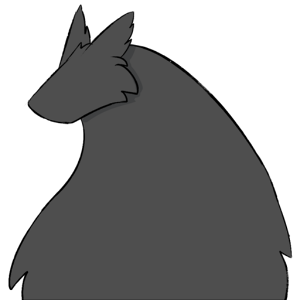
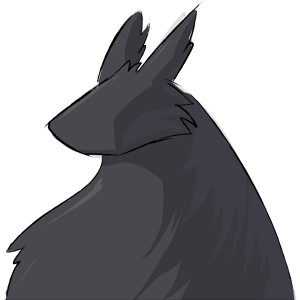
Updated tooltips
-Improved Reguar tooltip art
-Added Owluar/Wereguar tooltip art
-Implement new tooltip art into facelessness lore

Changed region(s): [[0.0, 0.0, 0.99, 1.0], [0.42, 0.45, 0.6, 0.51], [0.27, 0.36, 0.33, 0.39]]

diff --git a/src/Pages/Guarians/Tabs/Lore/Lore.tsx b/src/Pages/Guarians/Tabs/Lore/Lore.tsx
@@ -3,6 +3,8 @@ import { GuarianTooltip } from "../../../../Components/GuarianTooltip";
 import { TipIcon } from "../../../../Components/GuarianTooltip/Images";
 import styles from "./lore.module.css";
 
+const Gt = GuarianTooltip;
+
 interface IProps {}
 
 const Lore: React.FC<IProps> = ({}) => {
@@ -12,12 +14,13 @@ const Lore: React.FC<IProps> = ({}) => {
         <h3>Facial Features</h3>
         <p>
           One of the most notable and immediately apparent features of their guarians is their
-          typical lack of facial features. While total facelessness can be found in some guarians,
-          there are a few facial features that appear at varying frequencies. Ears are actually
-          relatively common and can be found on{" "}
-          <GuarianTooltip images={TipIcon.Reguar}>many guarians</GuarianTooltip>. Mouths are far
-          rarer, but can still be found on rare occassion. Not a single guarian with eyes has been
-          seen to date (not counting those who have had their eyes drawn on after the fact).
+          typical lack of facial features. While total facelessness is{" "}
+          <Gt images={TipIcon.Owluar}>relatively common</Gt>, a few facial features still naturally
+          occur. Ears are actually relatively common and can be found on{" "}
+          <Gt images={TipIcon.Reguar}>many guarians</Gt>. Mouths are far rarer, but can still be
+          found on rare occassion. Not a single guarian with eyes has been seen to date (not
+          counting those who have had their eyes{" "}
+          <Gt images={TipIcon.Wereguar}>drawn on after the fact</Gt>).
         </p>
       </div>
       <div className={styles.tidbit}>

diff --git a/src/Pages/Guarians/Tabs/KnownGuarians/GuarianCharacterReference/WideGuarianReference.tsx b/src/Pages/Guarians/Tabs/KnownGuarians/GuarianCharacterReference/WideGuarianReference.tsx
@@ -25,7 +25,6 @@ const WideGuarianReference: React.FC<IProps> = ({ guarian, selectedMaterial, onS
       <div style={{ display: "flex", flexDirection: isHorizontal ? "row" : "column" }}>
         <div
           style={{
-            //Massive flex so that this gets bigger before the text does
             flex: 1 + (guarian.images.maxRefWidth ?? 900) / 900,
             display: "flex",
             flexDirection: isHorizontal ? "column" : "row",

diff --git a/src/Components/GuarianTooltip/Images/tipIcon.ts b/src/Components/GuarianTooltip/Images/tipIcon.ts
@@ -1,0 +1,17 @@
+import reguar from "./reguar.png";
+import wereguar from "./wereguar.png";
+import owluar from "./owluar.png";
+
+export enum TipIcon {
+  Reguar,
+  Wereguar,
+  Owluar,
+}
+
+const tooltipMap: { [guarian: number]: string } = {};
+
+tooltipMap[TipIcon.Reguar] = reguar;
+tooltipMap[TipIcon.Wereguar] = wereguar;
+tooltipMap[TipIcon.Owluar] = owluar;
+
+export { tooltipMap };

diff --git a/src/Components/GuarianTooltip/Images/index.ts b/src/Components/GuarianTooltip/Images/index.ts
@@ -1,11 +1,1 @@
-import reguar from "./reguar.png";
-
-export enum TipIcon {
-  Reguar,
-}
-
-const tooltipMap: { [guarian: number]: string } = {};
-
-tooltipMap[TipIcon.Reguar] = reguar;
-
-export { tooltipMap };
+export { tooltipMap, TipIcon } from "./tipIcon";

diff --git a/src/Components/GuarianTooltip/index.ts b/src/Components/GuarianTooltip/index.ts
@@ -1,1 +1,2 @@
+export { TipIcon } from "./Images";
 export { GuarianTooltip } from "./GuarianTooltip";
